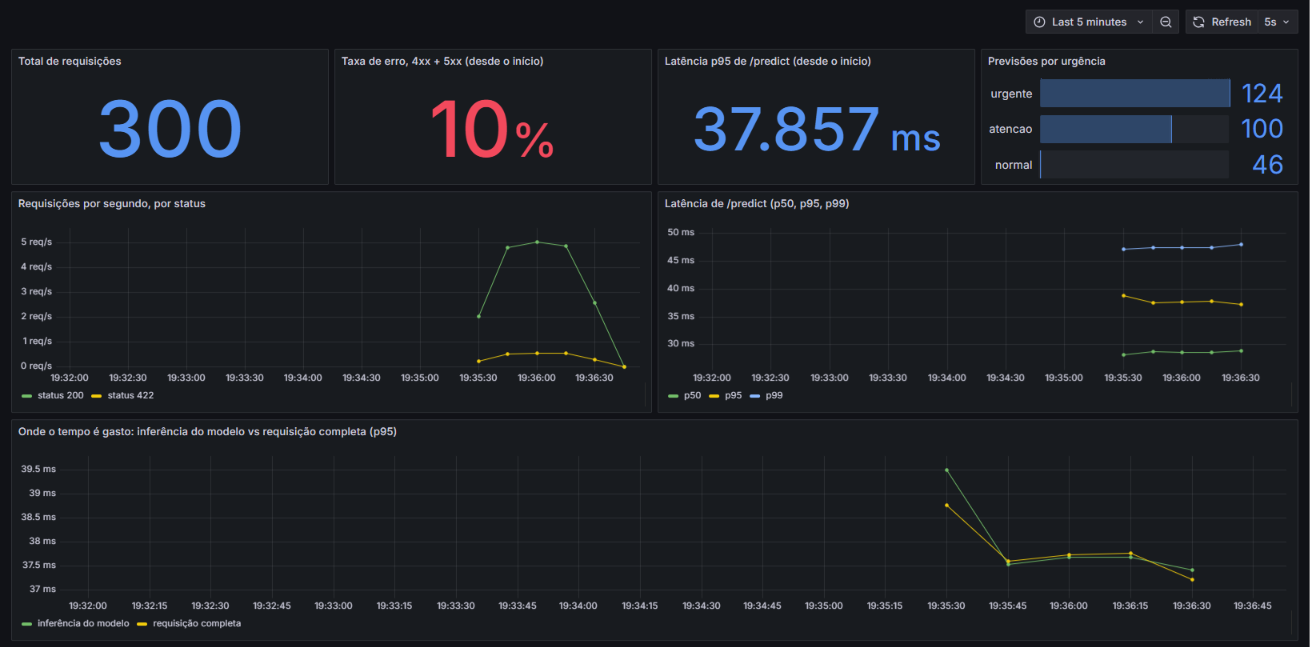
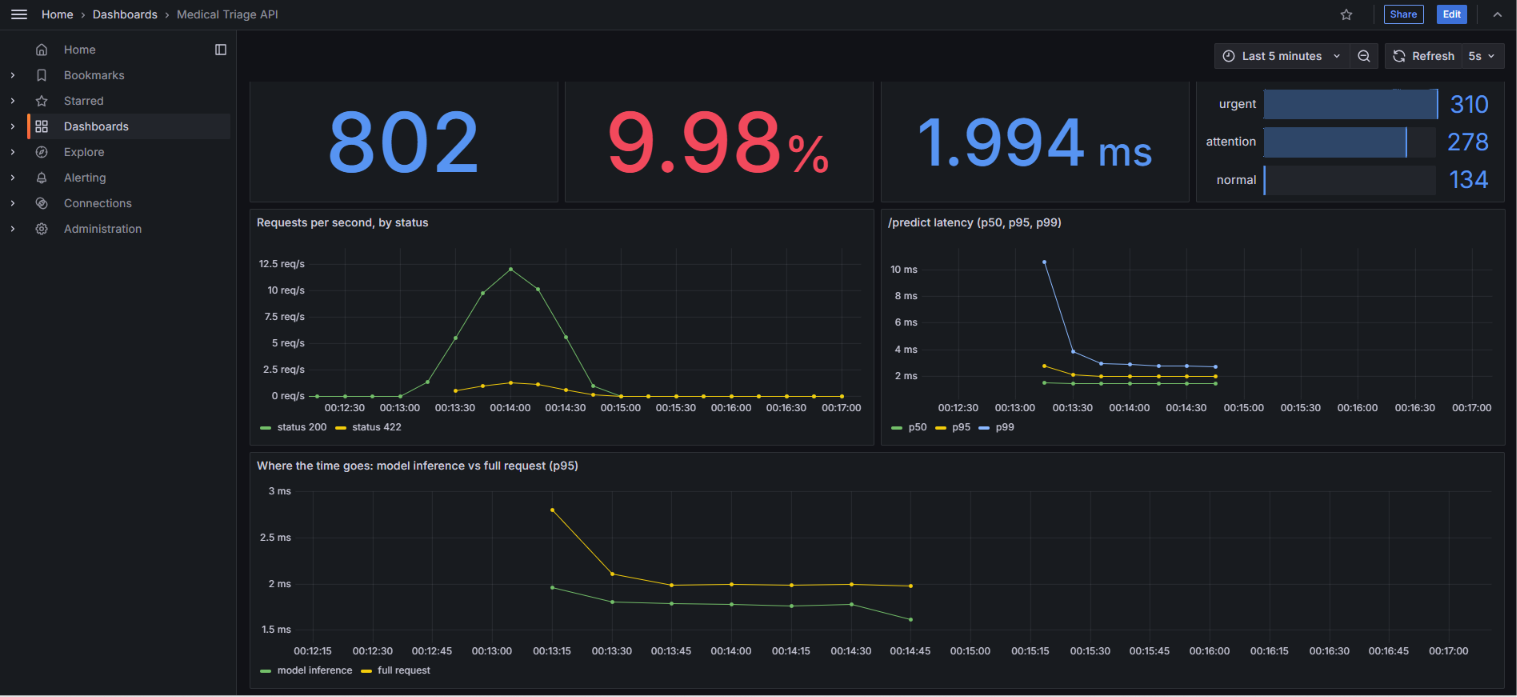
docs: add English README

diff --git a/README.md b/README.md
@@ -1,0 +1,228 @@
+# Medical Triage MLOps
+
+![CI](https://github.com/GFurts/medical-triage-mlops/actions/workflows/ci.yml/badge.svg)
+![Python](https://img.shields.io/badge/python-3.12-blue)
+
+Automatic urgency triage for medical text, served by a REST API and wrapped in a full MLOps lifecycle: CI, orchestrated retraining with quality gates, monitoring, and latency optimization.
+
+> **Disclaimer:** educational and portfolio project. It is not a medical device and must not support clinical decisions. The urgency levels are a *proxy* derived from the medical area of the text, with no clinical validation (see [Limitations](#limitations-and-next-steps)).
+
+Built from the Phase 3 Tech Challenge (Cloud & MLOps) of the Machine Learning Engineering postgraduate program at FIAP.
+
+## Results at a glance
+
+| | |
+|---|---|
+| **Model** | TF-IDF + Random Forest · macro F1 **0.76** over 5 medical areas · **0.85 recall** on the "urgent" class (held-out test set) |
+| **API latency** | p50 from **28.3 ms to 2.3 ms** (~12x faster) by fixing a parallelism setting and moving the forest to ONNX Runtime |
+| **Pipeline** | GitHub Actions CI (lint + 14 tests) · Airflow retraining DAG with two promotion gates · Prometheus + Grafana (7 panels) · everything in Docker |
+
+![Grafana dashboard](docs/images/grafana_dashboard.png)
+
+## Problem and approach
+
+Health services receive large volumes of clinical text and need to prioritize the most severe cases. This project implements the service that would do that prioritization: it receives a medical text and returns the **medical area**, the **urgency level** (`urgent`, `attention` or `normal`) and the **confidence** of the prediction.
+
+```bash
+curl -X POST http://127.0.0.1:8000/predict \
+  -H "Content-Type: application/json" \
+  -d '{"text": "Coronary artery bypass grafting in patients with acute myocardial infarction and left ventricular dysfunction."}'
+# {"category":"cardiovascular_diseases","urgency":"urgent","confidence":0.915}
+```
+
+Two design decisions shape everything else:
+
+1. **The model predicts the medical area (5 classes), and an editable table converts the area into urgency.** The business rule lives in `configs/urgency_mapping.json`, outside the model. If a clinician decides an area belongs to another level, one line changes and no retraining is needed.
+2. **The system around the model is the product.** That is why the classifier is deliberately light (TF-IDF + Random Forest): the effort goes into CI/CD, orchestration, observability and latency.
+
+| Area (dataset category) | Urgency |
+|---|---|
+| Cardiovascular diseases · Nervous system diseases | `urgent` |
+| Neoplasms · Digestive system diseases | `attention` |
+| General pathological conditions | `normal` |
+
+The criterion was how fast a condition tends to deteriorate. `normal` is a naming convention: it means the topic alone does not indicate priority, not that the condition is trivial.
+
+## Architecture
+
+```mermaid
+flowchart LR
+    subgraph retraining [Retraining - Airflow DAG]
+        A[prepare_data] --> B[train_model] --> C[export_onnx] --> D[evaluate_and_promote]
+    end
+    D -- "both gates pass" --> M[(models)]
+    M --> API[FastAPI service]
+    CLIENT[Client] -- "POST /predict" --> API
+    API -- "/metrics" --> P[Prometheus] --> G[Grafana]
+```
+
+## Data
+
+**Medical Abstracts TC Corpus** (Kaggle): 11,550 training abstracts and 2,888 test abstracts in 5 condition categories. Check the dataset page for its license. The files are not versioned in this repository.
+
+**Finding during exploration** (`notebooks/01_data_exploration.ipynb`): the dataset contains abstracts that belong to several categories and were stored once per category, producing the same text with different labels:
+
+- 1,956 repeated texts in train, **all** with conflicting labels (113 in test);
+- 988 texts appear in both train and test, **all** with different labels on each side.
+
+A text with two "correct" answers cannot be scored fairly. The cleaning step (`src/data_cleaning.py`, unit tested) removes every text with more than one distinct label **across train and test combined**, leaving **6,607 training texts and 1,691 test texts** (about 43% and 41% fewer). Cleaning each file separately would miss texts that appear once on each side with different labels.
+
+## Model
+
+TF-IDF (unigrams and bigrams, 20,000 terms) followed by a 200-tree Random Forest with `class_weight="balanced"`, because the classes are imbalanced (the smallest holds about 8% of the cleaned training texts).
+
+| Experiment (20% validation split of the training set) | Macro F1 (5 areas) | Urgent recall |
+|---|---|---|
+| No `class_weight` | 0.704 | 0.758 |
+| `class_weight="balanced"` | 0.752 | 0.851 |
+
+Final evaluation, once, on the cleaned test set (1,691 texts): **macro F1 0.760 · urgent recall 0.850**. For reference, always predicting the largest category scores about 28%.
+
+In triage the costly mistake is labeling an urgent case as not urgent, so the tracked metric is the recall of that class rather than accuracy.
+
+## Latency optimization
+
+| Configuration | p50 | p95 | p99 | Memory |
+|---|---|---|---|---|
+| Original (scikit-learn, `n_jobs=-1`) | 28.25 ms | 32.51 ms | 40.32 ms | 271 MiB |
+| scikit-learn with `n_jobs=1` | 8.56 ms | 10.58 ms | 12.08 ms | 266 MiB |
+| **ONNX Runtime** (TF-IDF in scikit-learn + forest in ONNX) | **2.30 ms** | **3.08 ms** | **3.72 ms** | 516 MiB |
+
+**How I got there:**
+
+1. **Measure first.** The API exposes a histogram of inference time only, and almost all server-side time was in the model, not in HTTP or serialization.
+2. **Per-stage profile** (`scripts/profile_pipeline.py`, one prediction at a time, outside the API): TF-IDF 0.29 ms; forest with `n_jobs=-1` 25.2 ms; forest with `n_jobs=1` 6.5 ms; forest in ONNX 0.06 ms.
+3. **The bottleneck was a parameter.** `n_jobs=-1` helps training, but for a single text, coordinating threads costs more than it saves. Setting it to `1` is already **3.3x** faster with no retraining.
+4. **ONNX only for the forest.** TF-IDF stays in scikit-learn, because its tokenization converted to ONNX can diverge from the original. Parity was checked on all 1,691 test texts (`scripts/check_onnx_parity.py`): 4 predictions differ (0.24%), all of them **exact probability ties**, and the maximum confidence difference is zero.
+5. **The trade-off is memory:** 516 MiB versus 266 MiB. The backend is therefore configurable (`MODEL_BACKEND`, `SKLEARN_N_JOBS`, `ONNX_THREADS`), and the same container runs any variant.
+
+**Method:** 500 sequential requests (after warm-up) using test-set texts, over HTTP against the Docker container, on a Windows laptop with 20 logical threads, plugged in and in performance mode. These are **local numbers and do not transfer to other environments**. An accidental run on battery power raised p50 from ~28 to ~40 ms, which shows that the measurement environment matters as much as the code. Raw results are in `docs/latency_*.json`.
+
+## MLOps pipeline
+
+**CI (GitHub Actions)**: on every push to `main` and on pull requests, lint (`ruff`) and tests (`pytest`, 14 tests) run in a clean environment with the versions pinned in `poetry.lock`. The API is tested against both backends (scikit-learn and ONNX) using a tiny model built by the tests themselves, so they do not depend on the real artifacts.
+
+**Retraining (Airflow)**: the `medical_triage_retraining` DAG (weekly, also runnable on demand) has four tasks: `prepare_data → train_model → export_onnx → evaluate_and_promote`. A full run takes about 23 seconds on my machine.
+
+![Airflow DAG](docs/images/airflow_dag.png)
+
+- Training runs in an isolated virtual environment inside the Airflow image, installed from the **same `poetry.lock` as the API**, so the model is trained and served with the same library versions.
+- The new model is saved as a **candidate** and replaces the one in use only if it passes **two gates**: urgent recall on the test set **≥ 0.80** (`MIN_URGENT_RECALL`), and an ONNX export that reproduces the scikit-learn probabilities within **1e-4** (the last run measured 1.9e-7). If a gate fails, the task fails and the serving model is untouched. A worse retrain cannot be promoted unnoticed.
+
+**Monitoring (Prometheus + Grafana)**: the API exposes `/metrics` with `http_requests_total`, `http_request_duration_seconds`, `model_inference_seconds` and `predictions_total` (by urgency level). Grafana starts provisioned, with the dashboard versioned under `monitoring/grafana/`, and has 7 panels: total requests, error rate, p95 latency, predictions by urgency, requests per second by status, p50/p95/p99 latency, and model inference vs full request.
+
+## Cloud architecture decision
+
+**Real time, not batch.** Prioritizing care requires an immediate answer for each text, so inference is an online service (request/response). Batch processing suits re-scoring a historical archive, which is where retraining fits: a scheduled job outside the request path.
+
+**AWS with ECS Fargate.** The Docker image goes to ECR and runs on Fargate (containers without managing servers) behind an Application Load Balancer, with a health check on `/health`. The model is light (CPU only, no GPU) and needs predictable latency, and `/metrics` integrates with Prometheus/Grafana or with AWS monitoring services. Educational credit was available on the account.
+
+**Alternatives considered:**
+
+- *AWS Lambda (container)*: good for sporadic traffic, but cold starts reload the model, which conflicts with low, predictable latency.
+- *EC2*: more control, at the cost of managing servers and updates.
+- *SageMaker endpoint*: more features than a light CPU classifier needs.
+- *Azure Container Apps / Google Cloud Run*: equivalent to Fargate, passed over because of the available AWS credit.
+
+**Current state:** the stack was validated locally with Docker. The AWS deployment is **documented and not executed**.
+
+## Running it
+
+Prerequisites: Python 3.12, [Poetry](https://python-poetry.org/) and Docker.
+
+```bash
+git clone https://github.com/GFurts/medical-triage-mlops.git
+cd medical-triage-mlops
+poetry install
+```
+
+**1. Data.** Download the Medical Abstracts TC Corpus from Kaggle and place `medical_tc_train.csv`, `medical_tc_test.csv` and `medical_tc_labels.csv` in `data/raw/`.
+
+**2. Train and export the model.**
+
+```bash
+poetry run python -m src.train
+```
+
+This runs the four pipeline steps (prepare, train, export to ONNX, evaluate and promote) and writes `models/model.joblib`, `models/vectorizer.joblib` and `models/forest.onnx`. These artifacts are not versioned, so generate them **before** building the Docker image.
+
+**3. API locally.**
+
+```bash
+poetry run uvicorn src.api:app
+# other backend: MODEL_BACKEND=sklearn SKLEARN_N_JOBS=1 poetry run uvicorn src.api:app
+# (PowerShell: $env:MODEL_BACKEND="sklearn")
+```
+
+Interactive docs at `http://127.0.0.1:8000/docs`.
+
+**4. API + Prometheus + Grafana.**
+
+```bash
+cp .env.example .env          # Windows: copy .env.example .env  (set the Grafana password)
+docker compose up --build
+poetry run python scripts/generate_traffic.py     # populates the dashboard
+```
+
+API on `:8000` · Prometheus on `:9090` · Grafana on `:3000` ("Medical Triage API" dashboard).
+
+**5. Airflow (retraining).**
+
+```bash
+docker compose -f docker-compose.airflow.yml up --build
+```
+
+UI at `http://localhost:8080` (no login, local only). Enable and trigger the `medical_triage_retraining` DAG.
+
+**6. Tests, lint and benchmark.**
+
+```bash
+poetry run pytest
+poetry run ruff check .
+poetry run python scripts/benchmark_latency.py --label my_test
+```
+
+### Configuration
+
+| Variable | Default | Purpose |
+|---|---|---|
+| `MODEL_BACKEND` | `onnx` | `onnx` or `sklearn` |
+| `SKLEARN_N_JOBS` | unset | threads for the scikit-learn forest (`1` is fastest for single requests) |
+| `ONNX_THREADS` | unset | intra-op threads for ONNX Runtime |
+| `MODELS_DIR` | `models` | where the serving artifacts are loaded from |
+| `MIN_URGENT_RECALL` | `0.80` | recall gate used when promoting a retrained model |
+
+## Repository structure
+
+```
+.github/workflows/ci.yml       CI: lint + tests
+airflow/Dockerfile             Airflow image + isolated training environment
+configs/urgency_mapping.json   business rule: medical area -> urgency
+dags/retraining_dag.py         retraining DAG
+docs/                          latency results (JSON) and images
+models/metrics.json            metrics of the model in use (artifacts are not versioned)
+monitoring/                    Prometheus and Grafana configuration (dashboard as code)
+notebooks/                     data exploration
+scripts/                       benchmark, profiling, ONNX parity check, traffic generator
+src/                           API, data cleaning, training, ONNX export and backends
+tests/                         API tests (both backends), cleaning, ONNX parity and quality gate
+Dockerfile                     API image
+docker-compose.yml             API + Prometheus + Grafana
+docker-compose.airflow.yml     Airflow (standalone mode, for development)
+```
+
+## Limitations and next steps
+
+**Limitations:**
+
+- **The urgency label is a proxy.** It comes from a lookup over the medical area, with no clinical validation. The model recognizes the *topic* of a text, not the severity of a patient.
+- **Data:** research abstracts, not patient reports.
+- **Optimistic evaluation.** Ambiguous texts were removed from the test set, so the metrics hold for single-category texts, while real traffic would include ambiguous ones. There is a single train/test split and no cross-validation, and the smallest class has only ~140 test examples.
+- **A recall of 0.85 means about 15% of urgent cases are labeled as not urgent.**
+- **Ties:** in 4 of 1,691 texts ONNX and scikit-learn break ties differently. There is no conservative tie-break (toward the more urgent class) and no low-confidence warning.
+- **Promotion is not atomic.** The three serving files are copied one after another, so a service restarting mid-copy could load a mix of old and new files.
+- **Artifacts live outside Git.** Whoever clones the repo must train before building the image. A production setup would use a model registry or a versioned bucket.
+- **Local latency only.** The AWS deployment is documented and not executed, and free-tier hosting CPUs are far smaller than the test machine's.
+- **Development-grade settings:** Airflow in `standalone` mode (SQLite) and the default Grafana password are for local use.
+
+**Next steps:** conservative tie-breaking and a minimum-confidence threshold; cross-validation; a model registry with versioning; deployment to AWS.
